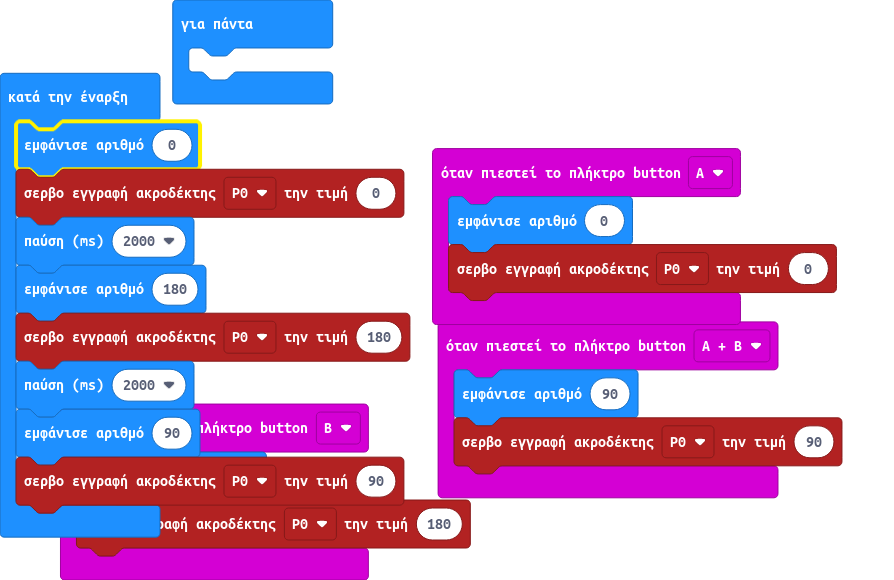
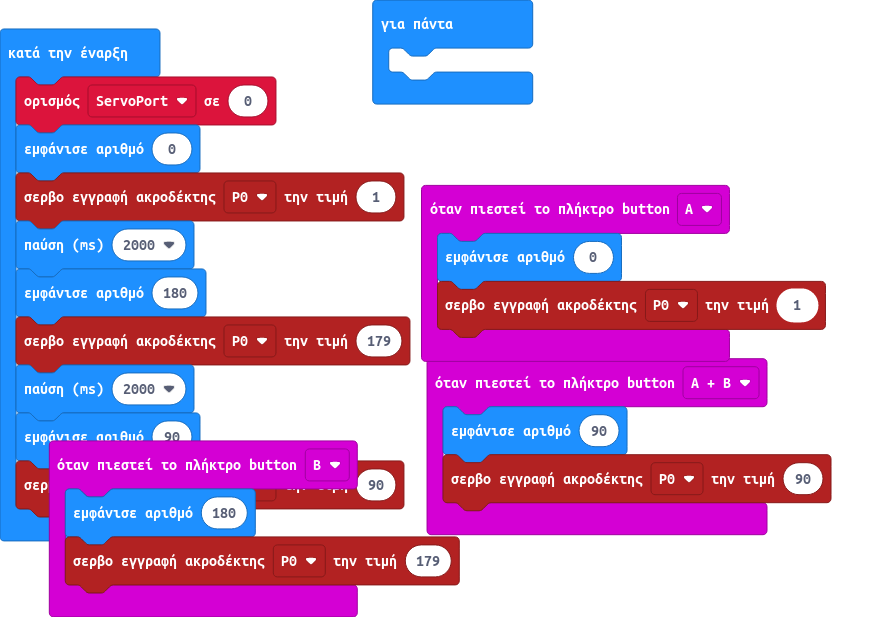
Ενημέρωση main.blocks, main.ts

diff --git a/main.ts b/main.ts
@@ -4,17 +4,18 @@ input.onButtonPressed(Button.AB, function () {
 })
 input.onButtonPressed(Button.A, function () {
     basic.showNumber(0)
-    pins.servoWritePin(AnalogPin.P0, 0)
+    pins.servoWritePin(AnalogPin.P0, 1)
 })
 input.onButtonPressed(Button.B, function () {
     basic.showNumber(180)
-    pins.servoWritePin(AnalogPin.P0, 180)
+    pins.servoWritePin(AnalogPin.P0, 179)
 })
+let ServoPort = 0
 basic.showNumber(0)
-pins.servoWritePin(AnalogPin.P0, 0)
+pins.servoWritePin(AnalogPin.P0, 1)
 basic.pause(2000)
 basic.showNumber(180)
-pins.servoWritePin(AnalogPin.P0, 180)
+pins.servoWritePin(AnalogPin.P0, 179)
 basic.pause(2000)
 basic.showNumber(90)
 pins.servoWritePin(AnalogPin.P0, 90)
